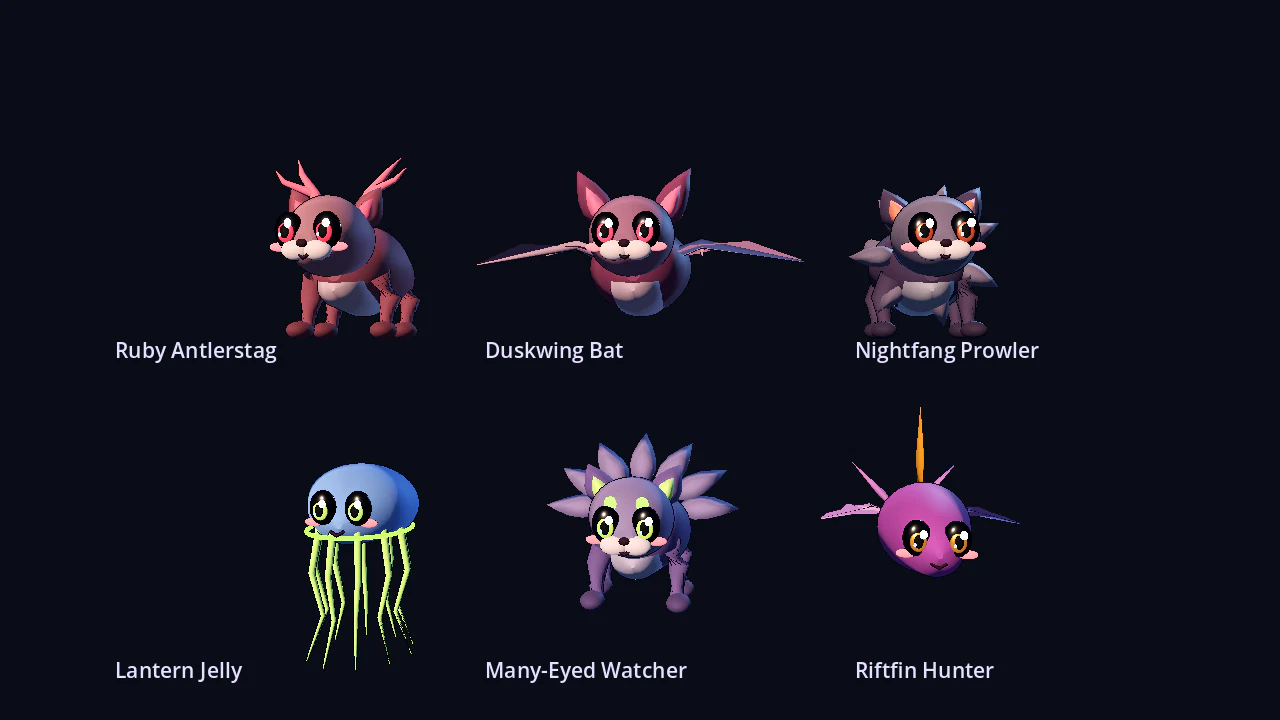
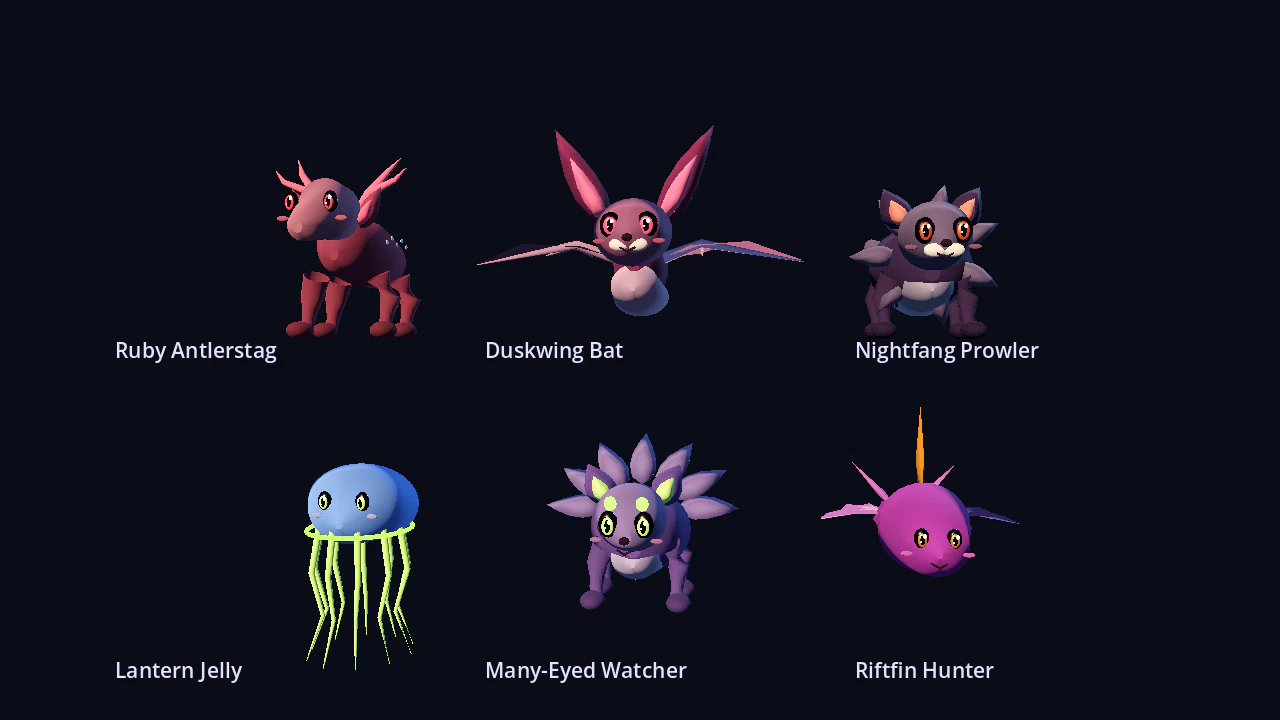
Refine wildlife anatomy and materials toward a soft storybook style
Give species distinct proportions and facial placement, soften body materials, and coordinate eye blinking. Include the Godot preview and comparative art review.

Validation: capture rescue 37 checks and sanctuary forms 39 checks passed; native OpenGL gallery rendered.

diff --git a/docs/design/creature-art-direction.md b/docs/design/creature-art-direction.md
@@ -1,0 +1,32 @@
+# Creature art review and refinement
+
+Chosen direction: original soft storybook wildlife, informed by the user's preference for Pokémon Snap. This is a design comparison, not a claim of a new external gameplay study.
+
+| Reference | Useful principle | Application here |
+| --- | --- | --- |
+| Pokémon Snap | Species anatomy and behavior carry personality before decoration | Separate stag, bat, prowler and aquatic proportions; preserve distinctive habitat traits |
+| Slime Rancher | Clear silhouettes, a restrained palette and readable expressions at distance | Smaller facial layers, cream accents, limited markings, matte bodies |
+| Astroneer | Consistent materials tie different shapes together | Shared soft surface response; glossy eyes reserved as focal points |
+
+## Problems observed in the actual v0.20 render
+
+The land species shared nearly identical puppy faces. Oversized eye layers and pink cheeks overwhelmed anatomy. Decorative leaves and horns carried too much of the species identity. Aquatic faces had the same facial spacing as land animals. The renderer's dark background also made the violet species harder to judge.
+
+## Implemented first refinement
+
+- A leaner fawn-shaped stag body, a tapered longer face, smaller eyes and small pale flank markings.
+- A smaller bat torso, wider face and taller ears, separated from the prowler's muzzle and mane.
+- A low, broad crawler body and low head, rather than another upright mammal.
+- Species-specific facial spacing and proportions for aquatic fauna and wisps.
+- Reduced cheek accents and eye highlights; softer, matte body materials without the extra outline pass.
+- Pupils and catchlights now close with the eyes during wild-fauna blinking.
+
+The shared builder applies to wild fauna, sanctuary residents, growth forms and creature armies. Gameplay, species IDs, saves and capture requirements are unchanged.
+
+## Remaining art work
+
+This is a procedural model refinement, not a finished sculpted asset set. Dedicated skeletal rigs, walking/swimming cycles, hand-authored textures and stronger habitat staging remain necessary for the full storybook target. Existing movement is still largely whole-body motion. The review image is an actual Godot render, not concept art.
+
+## Verification
+
+Capture rescue: 37 checks passed. Sanctuary forms: 39 checks passed. Native OpenGL gallery rendered and inspected. Windows GUI has not been run for this change.
